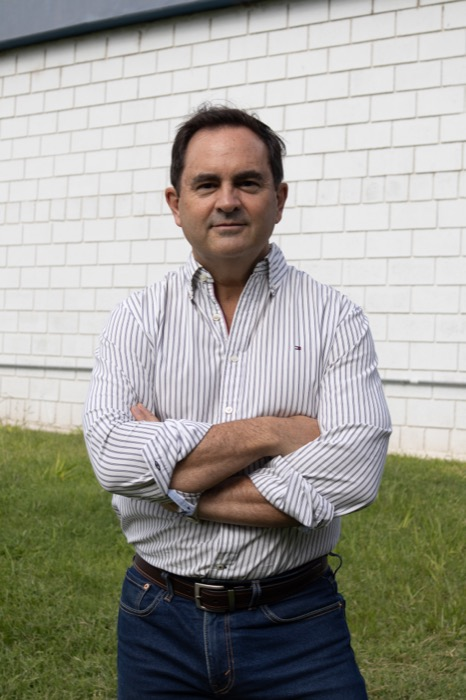
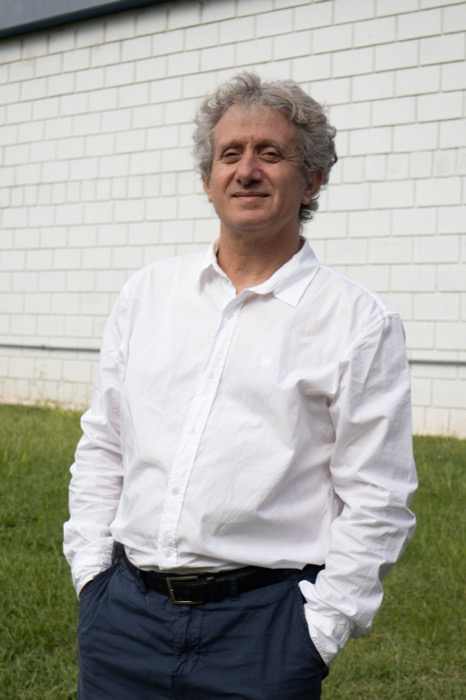
Quiénes somos: swap pablo↔esteban + ajustar crop para mostrar cabezas

diff --git a/quienes-somos.html b/quienes-somos.html
@@ -139,22 +139,22 @@
   <div class="wrap">
     <div class="team-grid sr">
       <div class="team-c">
-        <div class="team-photo"><img src="assets/img/andres.jpg" alt="Cr. Andrés Brandan" style="object-position: center 25%" /></div>
+        <div class="team-photo"><img src="assets/img/andres.jpg" alt="Cr. Andrés Brandan" style="object-position: center 15%" /></div>
         <strong>Cr. Andrés Brandan</strong>
         <span>Director Comercial</span>
       </div>
       <div class="team-c">
-        <div class="team-photo"><img src="assets/img/pablo.jpg" alt="Ing. Pablo Raimondo" style="object-position: center 12%" /></div>
+        <div class="team-photo"><img src="assets/img/pablo.jpg" alt="Ing. Pablo Raimondo" style="object-position: center 5%" /></div>
         <strong>Ing. Pablo Raimondo</strong>
         <span>Director de Producción</span>
       </div>
       <div class="team-c">
-        <div class="team-photo"><img src="assets/img/tristan.jpg" alt="Ing. Tristán Ríos Carranza" style="object-position: center 20%" /></div>
+        <div class="team-photo"><img src="assets/img/tristan.jpg" alt="Ing. Tristán Ríos Carranza" style="object-position: center 10%" /></div>
         <strong>Ing. Tristán Ríos Carranza</strong>
         <span>Director Comercial</span>
       </div>
       <div class="team-c">
-        <div class="team-photo"><img src="assets/img/esteban.jpg" alt="Ing. Esteban Nieto" style="object-position: center 12%" /></div>
+        <div class="team-photo"><img src="assets/img/esteban.jpg" alt="Ing. Esteban Nieto" style="object-position: center 5%" /></div>
         <strong>Ing. Esteban Nieto</strong>
         <span>Director Administrativo y Financiero</span>
       </div>

diff --git a/_generate_pages.py b/_generate_pages.py
@@ -492,22 +492,22 @@ quienes_content = '''
   <div class="wrap">
     <div class="team-grid sr">
       <div class="team-c">
-        <div class="team-photo"><img src="assets/img/andres.jpg" alt="Cr. Andrés Brandan" style="object-position: center 25%" /></div>
+        <div class="team-photo"><img src="assets/img/andres.jpg" alt="Cr. Andrés Brandan" style="object-position: center 15%" /></div>
         <strong>Cr. Andrés Brandan</strong>
         <span>Director Comercial</span>
       </div>
       <div class="team-c">
-        <div class="team-photo"><img src="assets/img/pablo.jpg" alt="Ing. Pablo Raimondo" style="object-position: center 12%" /></div>
+        <div class="team-photo"><img src="assets/img/pablo.jpg" alt="Ing. Pablo Raimondo" style="object-position: center 5%" /></div>
         <strong>Ing. Pablo Raimondo</strong>
         <span>Director de Producción</span>
       </div>
       <div class="team-c">
-        <div class="team-photo"><img src="assets/img/tristan.jpg" alt="Ing. Tristán Ríos Carranza" style="object-position: center 20%" /></div>
+        <div class="team-photo"><img src="assets/img/tristan.jpg" alt="Ing. Tristán Ríos Carranza" style="object-position: center 10%" /></div>
         <strong>Ing. Tristán Ríos Carranza</strong>
         <span>Director Comercial</span>
       </div>
       <div class="team-c">
-        <div class="team-photo"><img src="assets/img/esteban.jpg" alt="Ing. Esteban Nieto" style="object-position: center 12%" /></div>
+        <div class="team-photo"><img src="assets/img/esteban.jpg" alt="Ing. Esteban Nieto" style="object-position: center 5%" /></div>
         <strong>Ing. Esteban Nieto</strong>
         <span>Director Administrativo y Financiero</span>
       </div>